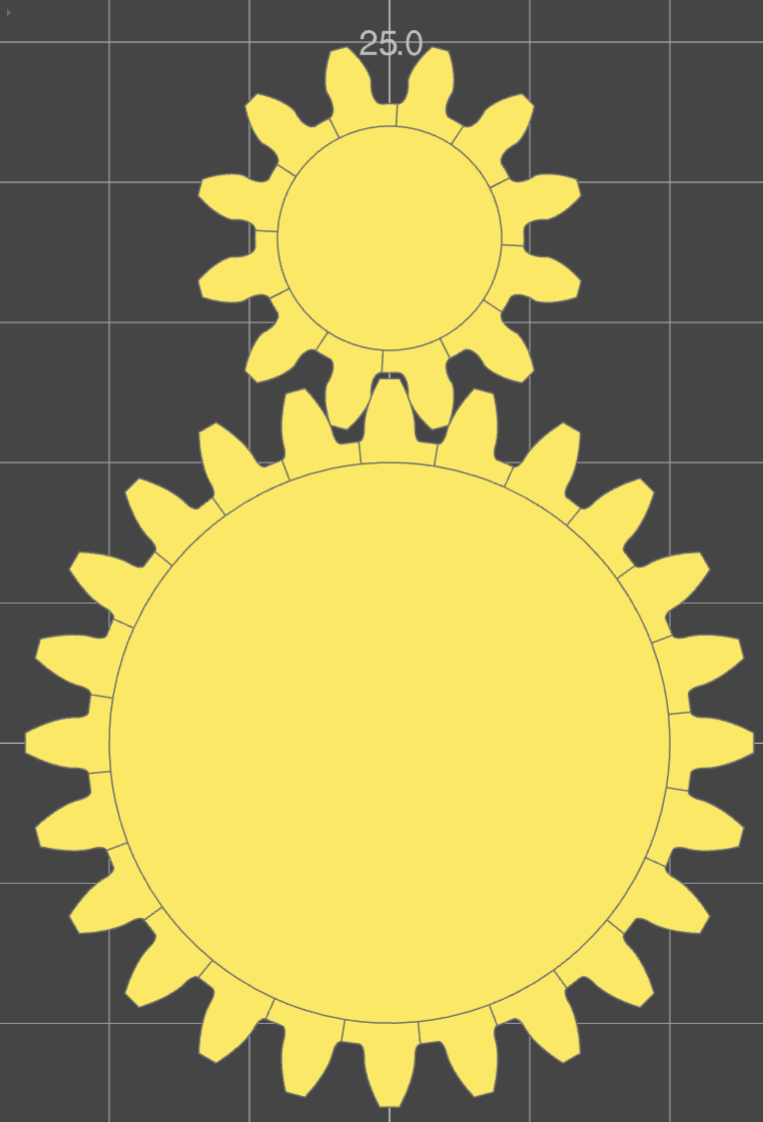
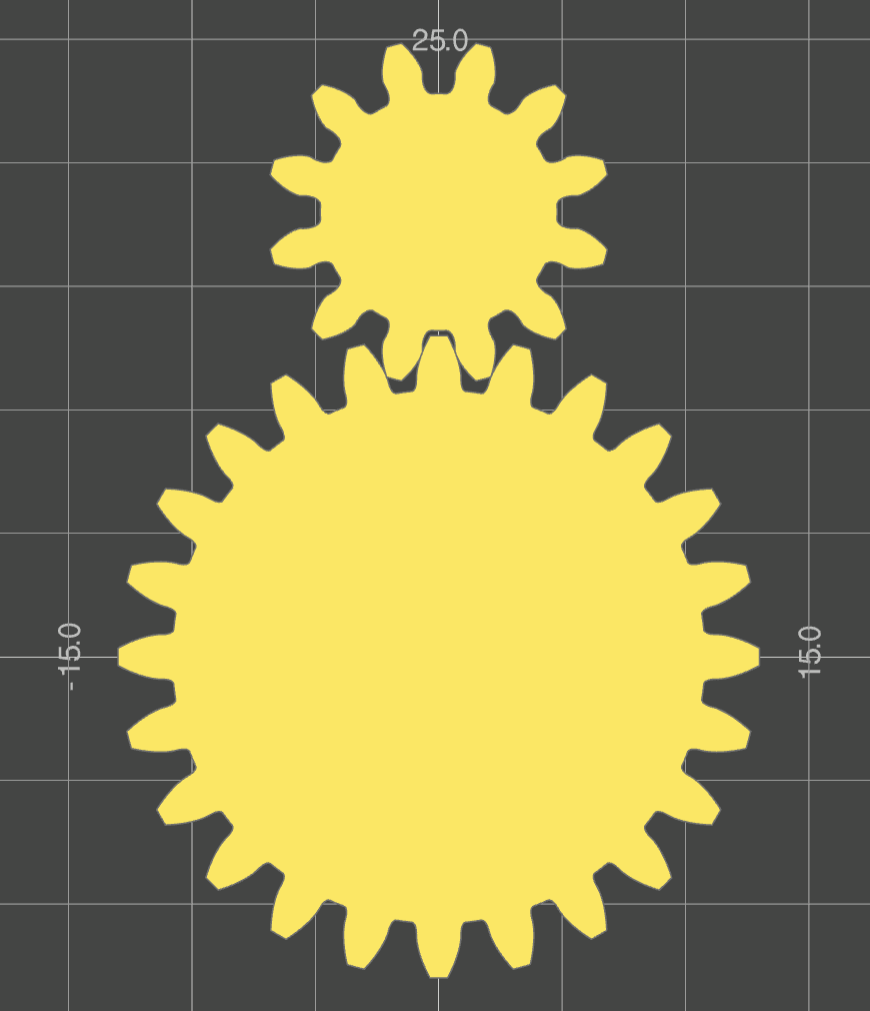
Update to example pics, corrected READMEH: cycloids are actually supported now.

diff --git a/examples/examples.py b/examples/examples.py
@@ -24,8 +24,8 @@ logging.basicConfig(
 
 def spur_gears():
 
-    gear1 = SpurGear(number_of_teeth=12, profile_shift=0.5)
-    gear2 = SpurGear(number_of_teeth=24, enable_undercut=False, root_fillet=0.2)
+    gear1 = SpurGear(number_of_teeth=12, profile_shift=0.0)
+    gear2 = SpurGear(number_of_teeth=24, enable_undercut=True, root_fillet=0.0)
     gear1.mesh_to(gear2, target_dir=UP)
     gear_part_1 = gear1.build_part()
     gear_part_2 = gear2.build_part()
@@ -285,4 +285,4 @@ def cycloid_drive():
 if __name__ == "__main__":
     set_port(3939)
 
-    show(bevel_gear(), deviation=0.05, angular_tolerance=0.1)
+    show(spur_gears(), deviation=0.05, angular_tolerance=0.1)

diff --git a/README.md b/README.md
@@ -31,13 +31,14 @@ Gear generation:
 - Profile shift
 - Undercut
 - Root / tip fillets
+- Cycloid gears
 
 Gear positioning and alignment supported.
 
 ![Bevel Gear Example](misc/media/bevel_gears.png)
 
 Not yet supported:
-- Cycloid gears
+
 - Hypoid gears
 - Worm gears
 - Face / crown gears
